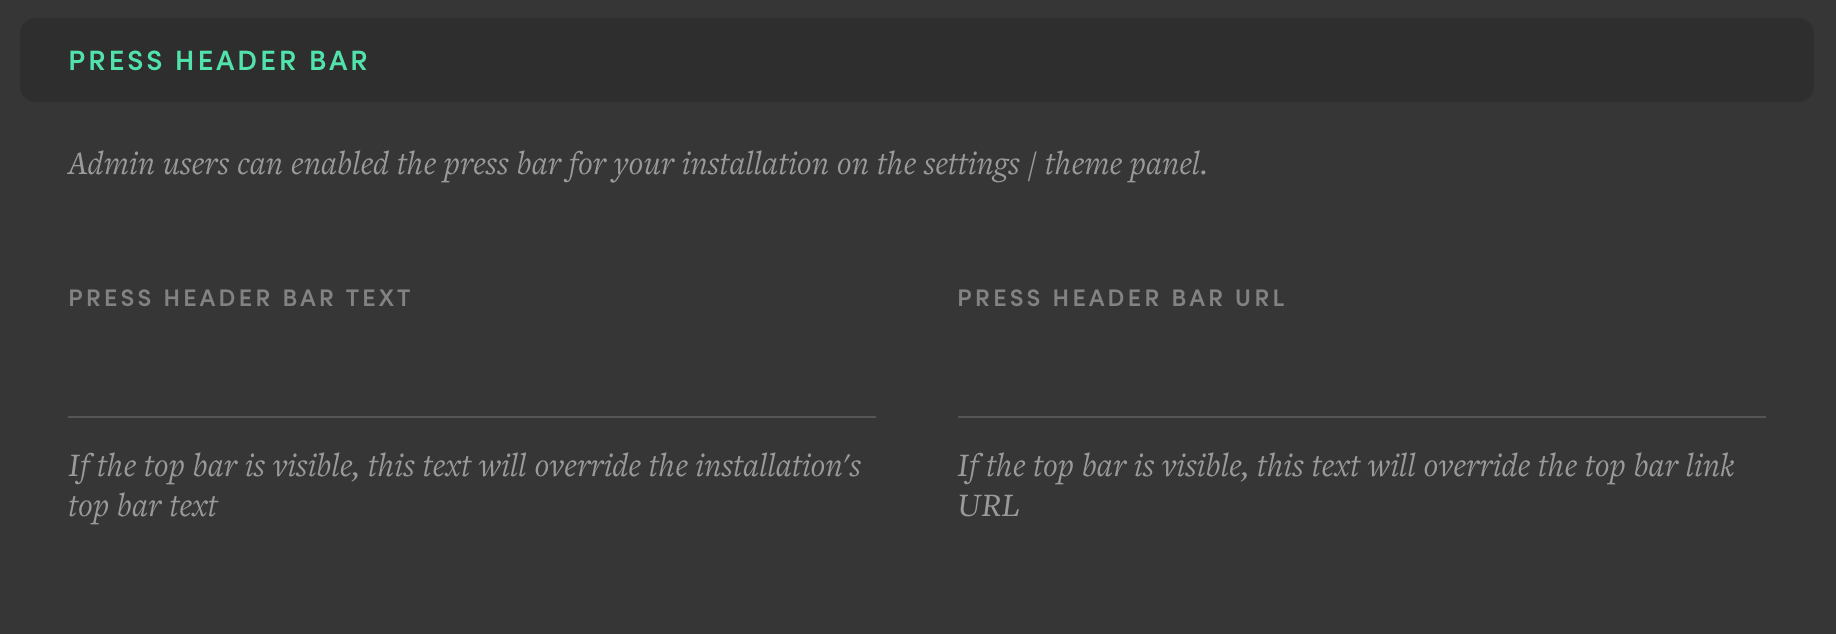
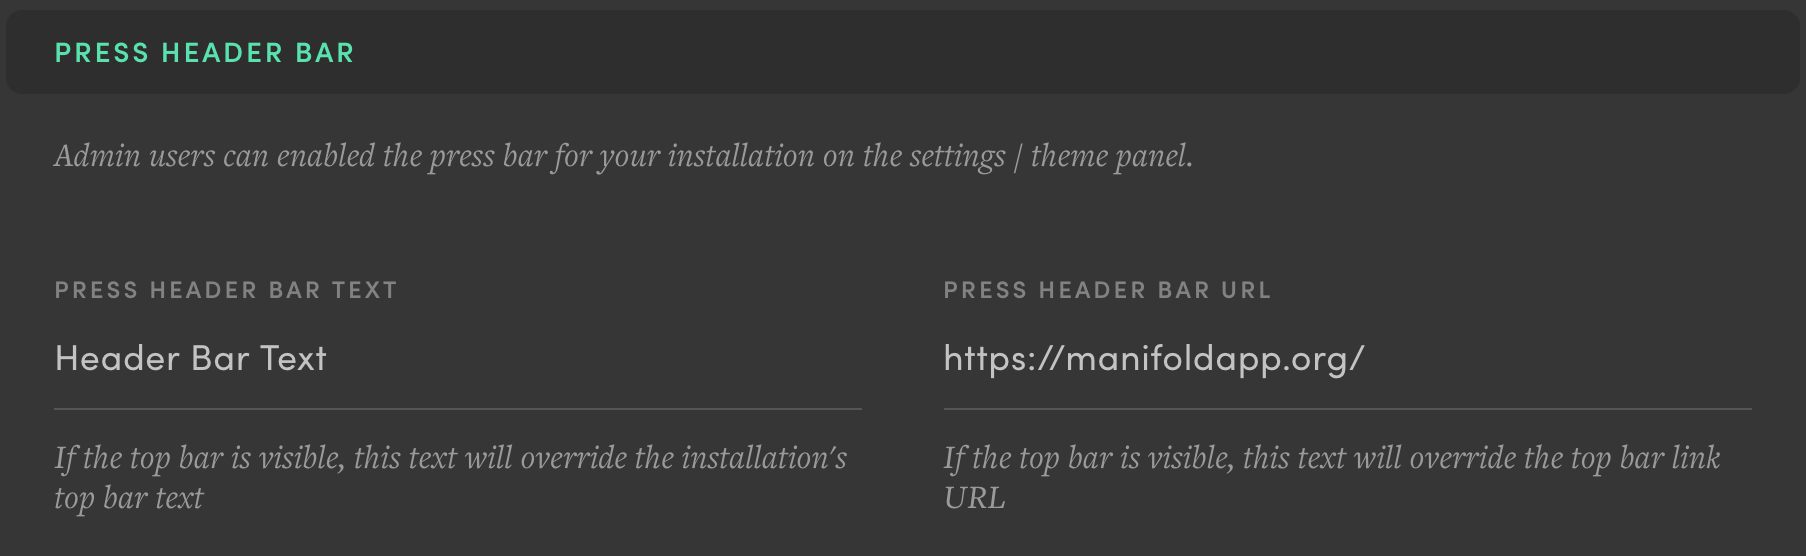
Completes standalone mode

diff --git a/_docs/projects/customizing/general.md b/_docs/projects/customizing/general.md
@@ -36,6 +36,7 @@ https://manifold.umn.edu/project/the-lab-book
 </div>
 
 <a name="thumbnail"></a>
+
 ### Project Thumbnail
 
 This table allows you to modify or customize the avatar representing the project, which displays in the library on the landing page. If no custom avatar has been added to the system, the default icon—made up of eye glasses, a dialog bubble, and a pencil—shows in the left panel.
@@ -51,6 +52,7 @@ Note that even if you add a book cover to display in the project's [hero block](
 ![Visibility](/docs/assets/projects/visibility.png)
 
 <a name="draft-mode"></a>
+
 ### Draft Mode
 
 For use when wanting to load and edit a project and its materials before publishing it for a broad readership. When toggled on, projects are only visible to users logged in with Administrator, Editor, or Marketeer roles—and to Project Creators on projects where they have `Can Modify Project` permissions. New projects are set to Draft Mode by default, and Draft status is denoted in the project library, as well as on the project landing page.
@@ -60,6 +62,7 @@ When a project is in Draft Mode, users who have permissions to view the project 
 Determining when drafts are made public falls to the discretion of publishers.
 
 <a name="featured"></a>
+
 ### Featured
 
 Featured projects take pride of place on the home page in a section of the library all of their own. Only four projects display in this section at a time. If more than four projects are toggled to be featured, only the four most recent will show. By default, new projects are *not* set to be featured.
@@ -69,31 +72,33 @@ Featured projects take pride of place on the home page in a section of the libra
 </div>
 
 <a name="standalone"></a>
+
 ### Standalone Mode
 
-The standard Manifold landing page that showcases [collections of projects](/docs/projects/collections.html) or a publisher's entire library of project offerings is not always appropriate or useful. In situations where an instance only has a handful of projects or when a publisher wants to incorporate Manifold projects as individual microsites into their existing web presence, Standalone Mode can be employed as a solution.
+Standalone Mode renders Manifold projects as distinct microsites. The standard Manifold landing page that showcases [collections of projects](/docs/projects/collections.html) or a publisher's entire library of project offerings is not always appropriate or useful. In situations where an instance only has a handful of projects or when a publisher wants to incorporate Manifold as part of their existing web presence, Standalone Mode can be employed as a solution.
 
 Any Manifold project can be rendered in standalone mode or in library mode. Using the dropdown, users can configure the most appropriate rendering for a project:
 
-- **Disabled**. If standalone mode is disabled, the project can never be viewed in standalone mode. This is the default setting for new projects. 
-- **Enabled**. If standalone mode is enabled, the user must come to that project with `?mode=standalone` appended to the URL for standalone presentation; otherwise users will encounter the default library view of the project. This is useful for publishers who want to present a project as standalone when directed from a specific location (e.g., a publisher's or author's website), while allowing the same project to be viewed in library mode for those arriving to it from other locations.
-- **Enforced**. If standalone mode is enforced, that project can only be viewed in standalone mode regardless of from where a user is coming to the project.
+- **Disabled**. If standalone mode is `Disabled`, the project can never be viewed in standalone mode. This is the default setting for new projects. 
+- **Enabled**. If standalone mode is `Enabled`, the user must come to that project with the following suffix appended to the URL for standalone presentation; otherwise users will encounter the default library view of the project: `?mode=standalone`. This is useful for publishers who want to present a project as standalone when directed from a specific location (e.g., a publisher's or author's website), while allowing the same project to be viewed in library mode for those arriving to it from other locations.
+- **Enforced**. If standalone mode is `Enforced`, that project can only be viewed in standalone mode regardless of from where a user is coming to the project.
 
 When a project is offered in standalone mode,
 
-- the library header is replaced with a more minimal standalone header (see the Header Bar options on the [Theme Settings page](/docs/customizing/settings.html#theme) to enable the header and customize its color),
+- the library header is replaced with a more minimal standalone header (for those with [Administrator credentials](/docs/projects/accounts/users.html), see the Header Bar options on the [Theme Settings page](/docs/customizing/settings.html#instance-header) to enable and customize the header),
 
 <figure>
   <img src="/docs/assets/projects/library.png" alt="Library Bar" style="margin-bottom: 1em;">
   <img src="/docs/assets/projects/standalone.png" alt="Standalone Bar">
-  <figcaption><em>Above</em>, the standard Manifold library header; <em>below</em>, the new standalone bar, which persists the project's title and subtitle on scroll—and serves as a clickable link to provide readers a means to return to the project landing page.</figcaption>
+  <figcaption><em>Above</em>, the standard Manifold library header; <em>below</em>, the standalone bar, which serves as a branding element as well as a clickable link.</figcaption>
 </figure>
 
-- on the project home page, the standalone header appears on scroll,
+- on the project home page the standalone header appears on scroll and persists the project's title and subtitle—and, like the header bar, serves as a clickable link to provide readers a means to return to the project landing page as they explore subpages within the project.
 
 <figure>
   <img src="/docs/assets/projects/standalone-scroll.png" alt="">
-  <figcaption>Here the user has scrolled down past the hero block with the project description to a text block, and the header, including the project title and subtitle has followed down the page. In this example, the header color setting was configured for dark mode.</figcaption>
+  <figcaption>Here the user has scrolled down past the hero block (containing the project description) to a text block, and the header, including the project title and subtitle has followed down the page. In this example, the header color setting was configured for dark mode.
+  </figcaption>
 </figure>
 
 - the standalone header will respect whether the project hero is set to light or dark mode,
@@ -101,8 +106,8 @@ When a project is offered in standalone mode,
 - the reader menu only includes a link to the project, and
 
 <figure>
-  <img src="/docs/assets/projects/reader-menu.png" alt="Default Reader Menu" style="max-height:20vw;">
-  <img src="/docs/assets/projects/standalone-menu.png" alt="Standalone Reader Menu" style="max-height:10vw;">
+  <img src="/docs/assets/projects/reader-menu.png" alt="Default Reader Menu" style="max-height:5vw; margin-right:.5em;">
+  <img src="/docs/assets/projects/standalone-menu.png" alt="Standalone Reader Menu" style="max-height:2.5vw;">
   <figcaption><em>Left</em>, the standard Manifold library navigation; <em>right</em>, the navigation in standalone mode, which is scoped down to only include project-level navigation.</figcaption>
 </figure>
 
@@ -110,11 +115,11 @@ When a project is offered in standalone mode,
 
 These settings work in conjunction with the header bar configurations, which can be adjusted on a project-by-project basis or generally across an entire instance.
 
-See the [Header Bar section](/docs/projects/customizing/general.html#header-bar) below to adjust an individual project's header bar text and link URL. To modify the header bar across the instance as a whole generally—text, link URL, color, and behavior, see the [Theme Settings page](/docs/customizing/settings.html#theme).
+See the [Header Bar section](/docs/projects/customizing/general.html#header-bar) below to adjust an individual project's header bar text and link URL. Those with [Administrator credentials](/docs/projects/accounts/users.html) can modify the header bar globally across the instance—its text, link URL, color, and behavior—on the [Theme Settings page](/docs/customizing/settings.html#instance-header).
 
 <div style="background: #d4f2ff; margin: 20px 0; padding: 15px;">
-<ul><li>Regardless of how many projects are set for Standalone Mode, the standard Manifold landing page will still exist. Further, if a reader navigates to an instances's landing page (by happenstance or by entering it into the URL bar) they will be able to see all the projects on the instance—even those that are set for Standalone Mode—excepting those in Draft Mode.</li>
-<li>If you enable or enforce standalone mode on a project but don't see a header bar on your project, check the <a href="/docs/customizing/settings.html#theme">Theme Settings page</a> to see that Header Bar Display Mode is not set to <code>Disabled</code>.</li>
+<ul><li>Regardless of how many projects are set for Standalone Mode, the standard Manifold landing page will still exist. Further, if a reader navigates to an instances's landing page (by happenstance or by entering it into the URL bar) they will be able to see all the projects on the instance—even those that are set for Standalone Mode—excepting those in <a href="/docs/projects/customizing/general.html#draft-mode">Draft Mode</a>.</li>
+<li>If you enable or enforce standalone mode on a project but don't see a header bar on your project, check the <a href="/docs/customizing/settings.html#instance-header">Theme Settings page</a> to see that Header Bar Display Mode is not set to <code>Disabled</code>. N.B., only users with <a href="/docs/projects/accounts/users.html">Administrator credentials</a> can access the Theme Settings page.</li>
 </ul>
 </div>
 
@@ -123,6 +128,7 @@ See the [Header Bar section](/docs/projects/customizing/general.html#header-bar)
 ![Taxonomy](/docs/assets/projects/taxonomy.png)
 
 <a name="subjects"></a>
+
 ### Subjects
 
 Subjects provide a means to categorize projects, which readers can use as filters to sort through the collection of projects on the landing page (see [Projects Library](/docs/reading/library.html)).
@@ -132,6 +138,7 @@ Subjects can only be created by users with Administrator roles. All other roles 
 To learn more about how to create Subjects as an Administrator, see the [Subjects section](/docs/customizing/settings.html#subjects). And to see how Subjects can be used to curate Smart Collections, visit the [Project Collections](/docs/projects/collections.html#smart-collections) page.
 
 <a name="tags"></a>
+
 ### Tags
 
 Unlike Subjects, Tags can be created by any user who has permission to modify a project and can be used to add further richness to the existing subject classification. Like Subjects, the Tag field provides a helper so that as you begin typing any similar tags that have already been created on your instance will be revealed.
@@ -139,9 +146,26 @@ Unlike Subjects, Tags can be created by any user who has permission to modify a 
 To see how Tags can be used to curate Smart Collections, visit the [Project Collections](/docs/projects/collections.html#smart-collections) page.
 
 <a name="header-bar"></a>
+
 ## Header Bar
+The instance header bar is a thin, customizable branding element that serves as a means to contextualize a Manifold page for readers in relation to a larger mission. The header bar options on this page function as project-specific overrides to the global header bar configurations set by those with [Administrator credentials](/docs/projects/accounts/users.html) on the [Theme Settings page](/docs/customizing/settings.html#instance-header).
+
+<div style="background: #d4f2ff; margin: 20px 0; padding: 15px;">
+<strong>Note</strong>. The header bar color and display parameters are only configurable for users with Administrator credentials from the Theme Settings page.
+</div>
 
 ![Header Bar](/docs/assets/projects/header-bar.png)
 
-- Header Bar Text
-- Header Bar URL
+### Header Bar Text
+
+Text entered here appears in the header bar for the specific project being editing, superseding the header bar text entered by those with [Administrator credentials](/docs/projects/accounts/users.html) on the [Theme Settings page](/docs/customizing/settings.html#instance-header).
+
+![Header Bar Text](/docs/assets/projects/header-bar-text.png)
+
+<div style="background: #d4f2ff; margin: 20px 0; padding: 15px;">
+<strong>Note</strong>. This field is <em>not</em> Markdown enabled and only accepts one line of text.
+</div>
+
+### Header Bar URL
+
+The header bar functions as a clickable link. The URL entered here will serve as the link target to any user who clicks on the header bar. As with the Header Bar Text above, the value entered here will supersede the input from the [Theme Settings page](/docs/customizing/settings.html#instance-header).

diff --git a/_docs/customizing/settings.md b/_docs/customizing/settings.md
@@ -107,7 +107,7 @@ Publisher logos replace the default Manifold icon and will appear in the upper l
 
 Header Logos are constrained to max height of 60 px high with flexible height and can be uploaded as a GIF, JPEG, JPG, or PNG file.
 
-#### Mobile Logo
+#### Mobile Header Logo
 
 A logo added to this field will replace the Header Logo on mobile devices.
 
@@ -148,6 +148,50 @@ This field allows users to adjust the vertical position of header navigation men
 Manifold was designed to employ two TypeKit fonts throughout the app: `Sofia Pro` and `Freight Text`. If you have a valid Typekit account and enter your ID in this field, those two fonts will load for your readers.
 
 If you do not have a Typekit account, Manifold will defer to two sets of open-license alternatives that are included at installation: `Trueno` and `Aleo`.
+
+<a name="instance-header"></a>
+
+### Instance Header Bar
+
+![Instance Header](/docs/assets/customizing/instance-header.png)
+
+The instance header bar is a thin, customizable branding element that serves as a means to contextualize a Manifold page for readers in relation to a larger mission. It can be configured to appear atop all Manifold pages outside of the reader, or it can be set to specifically target only those projects that are enabled for [standalone mode](/docs/projects/customizing/general.html#standalone).
+
+<div style="background: #d4f2ff; margin: 20px 0; padding: 15px;">
+<strong>Note</strong>. The instance header bar can be deployed alongside the standard library header; it does not <em>only</em> need to be used in conjunction with projects in standalone mode.
+</div>
+
+#### Text
+
+Text entered here appears in the header bar globally across the instance, but it can be superseded on individual projects if so configured in a project's [General settings](/docs/projects/customizing/general.html#header-bar).
+
+![Header Bar Text](/docs/assets/projects/header-bar-text.png)
+
+<div style="background: #d4f2ff; margin: 20px 0; padding: 15px;">
+<strong>Note</strong>. This field is <em>not</em> Markdown enabled and only accepts one line of text.
+</div>
+
+#### URL
+
+The header bar functions as a clickable link. The URL entered here will serve as the target link to any user who clicks on the header bar. Like the Header Bar Text, input here can be overriden on a project's [General settings](/docs/projects/customizing/general.html#header-bar) page.
+
+#### Color
+
+The color of the header bar is customizable. To define the color of the header bar for your Manifold instance, enter an HTML color hex value—including the hash symbol (#)—in this field (e.g., `#2980B9`).
+
+<div style="background: #d4f2ff; margin: 20px 0; padding: 15px;">
+<strong>Note</strong>. The color of the header bar is a global setting and cannot be adjusted for individual projects.
+</div>
+
+#### Press Bar Display Mode
+
+- **Disabled**. When set to `Disabled` the header bar will not display—*even if* a user fills in the [header bar fields](/docs/projects/customizing/general.html#header-bar) for an individual project or sets one up to appear in [standalone mode](/docs/projects/customizing/general.html#standalone).
+- **Always Visible**. If toggled to `Always Visible`, so long as the text and URL have been provided, the header bar will display on all Manifold pages (excepting those within the reader), regardless of whether or not those pages are associated with a standalone project. If users have enabled [standalone mode](/docs/projects/customizing/general.html#standalone) and the [header bar](/docs/projects/customizing/general.html#header-bar) for individual projects, those settings will override the text and URL entered here in the Theme settings.
+- **Only Visible in Standalone Mode**. To set the header bar to only appear on those pages associated with projects that are enabled for [standalone mode](/docs/projects/customizing/general.html#standalone), select `Only Visible in Standalone Mode`.
+
+<div style="background: #d4f2ff; margin: 20px 0; padding: 15px;">
+The header won't display unless text and a URL are provided. However, if the header bar is enabled to be visible in standalone mode and a user has input text and a URL for those projects individually in their <a href="/docs/projects/customizing/general.html">General settings</a>, the header bar will appear, even if that information has not been filled in here in the Theme settings.
+</div>
 
 <a name="integrations"></a>
 ## Integrations
